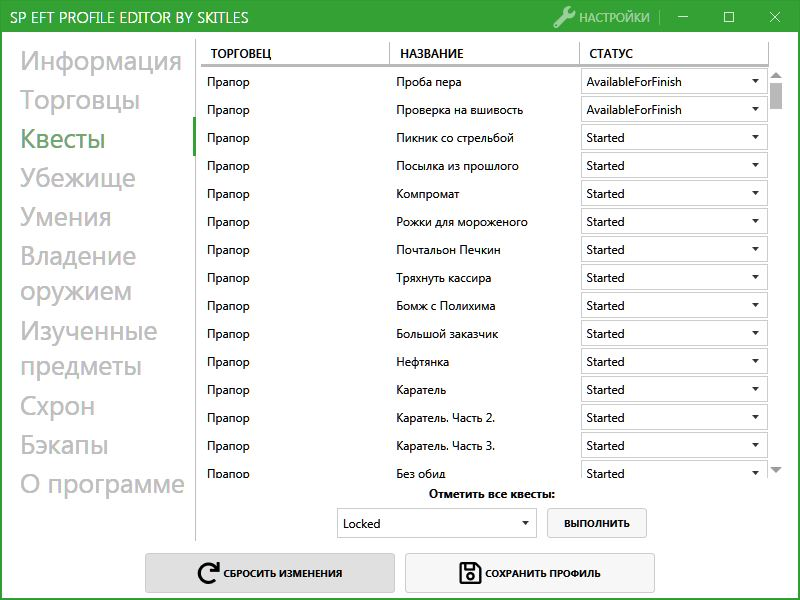
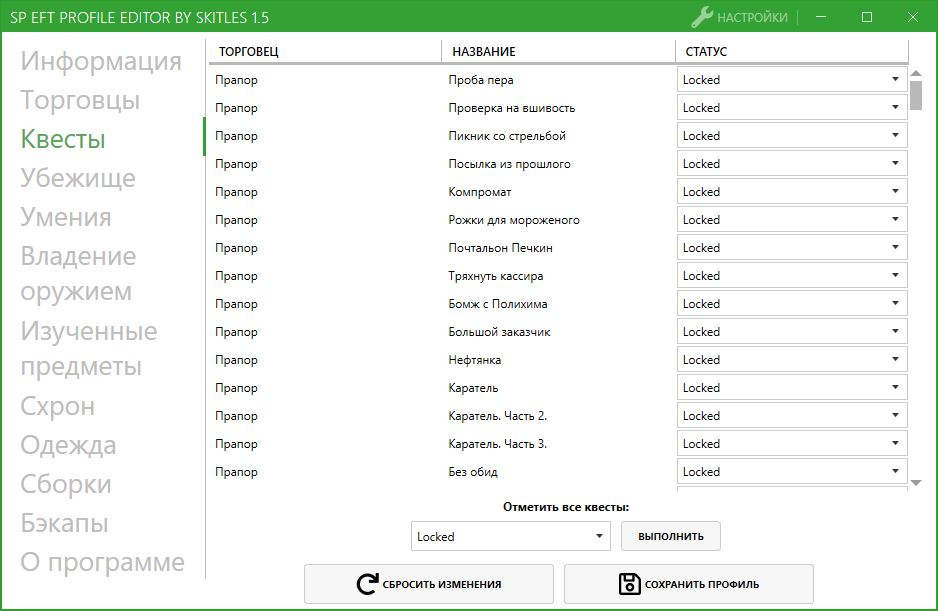
- Переход на SPT-AKI R7 - Локализация выбора головы персонажа - Обновление скриншотов - Обновление readme

diff --git a/SP-EFT-ProfileEditor/MainWindow.xaml b/SP-EFT-ProfileEditor/MainWindow.xaml
@@ -132,7 +132,7 @@
                             <TextBlock TextWrapping="Wrap" Text="{Binding locale[tab_info_head]}"/>
                         </Label.Content>
                     </Label>
-                    <ComboBox x:Name="infotab_Head" Grid.Column="1" Grid.Row="7" Margin="10,0" VerticalAlignment="Center" SelectedItem="{Binding Character.Customization.Head, Mode=TwoWay}"/>
+                    <ComboBox x:Name="infotab_Head" Grid.Column="1" Grid.Row="7" Margin="10,0" VerticalAlignment="Center" DisplayMemberPath="Value" SelectedValuePath="Key" SelectedValue="{Binding Character.Customization.Head, Mode=TwoWay}"/>
                     <Label Grid.Column="0" Grid.Row="8" HorizontalAlignment="Left" VerticalAlignment="Center" FontWeight="Bold" Margin="10,0,0,0">
                         <Label.Content>
                             <TextBlock TextWrapping="Wrap" Text="{Binding locale[tab_info_bigpockets]}"/>

diff --git a/SP-EFT-ProfileEditor/MainWindow.xaml.cs b/SP-EFT-ProfileEditor/MainWindow.xaml.cs
@@ -137,26 +137,41 @@ namespace SP_EFT_ProfileEditor
                     ModItemsWarning.Visibility = Visibility.Visible;
             }
             if (Lang.Character.Info != null && BotTypes != null && BotTypes.ContainsKey(Lang.Character.Info.Side))
-            {
-                infotab_Voice.ItemsSource = BotTypes[Lang.Character.Info.Side].appearance.voice;
-                infotab_Head.ItemsSource = BotTypes[Lang.Character.Info.Side].appearance.head;
-            }
+                SetHeadsAndVoices();
             progressDialog.CloseAsync();
+        }
+
+        private void SetHeadsAndVoices()
+        {
+            //infotab_Voice.ItemsSource = BotTypes[Lang.Character.Info.Side].appearance.voice;
+            //infotab_Head.ItemsSource = BotTypes[Lang.Character.Info.Side].appearance.head.Select(x => globalLang.Customization.ContainsKey(x) ? new KeyValuePair<string, string> (x, globalLang.Customization[x].Name) : new KeyValuePair<string, string>(x, x));
+            //while spt aki have bug with mixing heads
+            List<string> Voices = BotTypes[Lang.Character.Info.Side].appearance.voice.ToList();
+            if (!Voices.Contains(Lang.Character.Info.Voice))
+                Voices.Add(Lang.Character.Info.Voice);
+            infotab_Voice.ItemsSource = Voices;
+            Dictionary<string, string> Heads = new Dictionary<string, string>();
+            foreach (var type in BotTypes.Values)
+                foreach (var head in type.appearance.head)
+                    Heads.Add(head, globalLang.Customization.ContainsKey(head) ? globalLang.Customization[head].Name : head);
+            if (!Heads.ContainsKey(Lang.Character.Customization.Head))
+                Heads.Add(Lang.Character.Customization.Head, Lang.Character.Customization.Head);
+            infotab_Head.ItemsSource = Heads;
         }
 
         private void LoadDataWorker_DoWork(object sender, DoWorkEventArgs e)
         {
-            serverGlobals = JsonConvert.DeserializeObject<ServerGlobals>(File.ReadAllText(Path.Combine(Lang.options.EftServerPath, "packages", "eft-database", "db", "globals.json")));
-            globalLang = JsonConvert.DeserializeObject<GlobalLang>(File.ReadAllText(Path.Combine(Lang.options.EftServerPath, "packages", "eft-database", "db", "locales", "global", Lang.options.Language + ".json")));
+            serverGlobals = JsonConvert.DeserializeObject<ServerGlobals>(File.ReadAllText(Path.Combine(Lang.options.EftServerPath, "Aki_Data", "Server", "eft-database", "db", "globals.json")));
+            globalLang = JsonConvert.DeserializeObject<GlobalLang>(File.ReadAllText(Path.Combine(Lang.options.EftServerPath, "Aki_Data", "Server", "eft-database", "db", "locales", "global", Lang.options.Language + ".json")));
             itemsDB = new Dictionary<string, Item>();
-            itemsDB = JsonConvert.DeserializeObject<Dictionary<string, Item>>(File.ReadAllText(Path.Combine(Lang.options.EftServerPath, "packages", "eft-database", "db", "templates", "items.json")));
+            itemsDB = JsonConvert.DeserializeObject<Dictionary<string, Item>>(File.ReadAllText(Path.Combine(Lang.options.EftServerPath, "Aki_Data", "Server", "eft-database", "db", "templates", "items.json")));
             BotTypes = new Dictionary<string, BotType>();
-            BotTypes.Add("Bear", JsonConvert.DeserializeObject<BotType>(File.ReadAllText(Path.Combine(Lang.options.EftServerPath, "packages", "eft-database", "db", "bots", "types", "bear.json"))));
-            BotTypes.Add("Usec", JsonConvert.DeserializeObject<BotType>(File.ReadAllText(Path.Combine(Lang.options.EftServerPath, "packages", "eft-database", "db", "bots", "types", "usec.json"))));
+            BotTypes.Add("Bear", JsonConvert.DeserializeObject<BotType>(File.ReadAllText(Path.Combine(Lang.options.EftServerPath, "Aki_Data", "Server", "eft-database", "db", "bots", "types", "bear.json"))));
+            BotTypes.Add("Usec", JsonConvert.DeserializeObject<BotType>(File.ReadAllText(Path.Combine(Lang.options.EftServerPath, "Aki_Data", "Server", "eft-database", "db", "bots", "types", "usec.json"))));
             if (Lang.Character.Quests != null)
             {
                 Quests = new List<Quest>();
-                Dictionary<string, QuestData> qData = JsonConvert.DeserializeObject<Dictionary<string, QuestData>>(File.ReadAllText(Path.Combine(Lang.options.EftServerPath, "packages", "eft-database", "db", "templates", "quests.json")));
+                Dictionary<string, QuestData> qData = JsonConvert.DeserializeObject<Dictionary<string, QuestData>>(File.ReadAllText(Path.Combine(Lang.options.EftServerPath, "Aki_Data", "Server", "eft-database", "db", "templates", "quests.json")));
                 List<Character.Character_Quests> forAdd = new List<Character.Character_Quests>();
                 foreach (var qd in qData.Values)
                 {
@@ -235,7 +250,7 @@ namespace SP_EFT_ProfileEditor
             if (Lang.Character.Hideout != null)
             {
                 HideoutAreas = new List<CharacterHideoutArea>();
-                var areas = JsonConvert.DeserializeObject<List<AreaInfo>>(File.ReadAllText(Path.Combine(Lang.options.EftServerPath, "packages", "eft-database", "db", "hideout", "areas.json")));
+                var areas = JsonConvert.DeserializeObject<List<AreaInfo>>(File.ReadAllText(Path.Combine(Lang.options.EftServerPath, "Aki_Data", "Server", "eft-database", "db", "hideout", "areas.json")));
                 foreach (var area in areas)
                     HideoutAreas.Add(new CharacterHideoutArea { type = area.type, name = globalLang.Interface[$"hideout_area_{area.type}_name"], MaxLevel = area.stages.Count - 1, CurrentLevel = Lang.Character.Hideout.Areas.Where(x => x.Type == area.type).FirstOrDefault().Level, stages = area.stages });
             }
@@ -273,7 +288,7 @@ namespace SP_EFT_ProfileEditor
             if (Lang.Character.Suits != null)
             {
                 Suits = new List<SuitInfo>();
-                foreach (var s in Directory.GetDirectories(Path.Combine(Lang.options.EftServerPath, "packages", "eft-database", "db", "traders")).Where(x => File.Exists(Path.Combine(x, "suits.json"))))
+                foreach (var s in Directory.GetDirectories(Path.Combine(Lang.options.EftServerPath, "Aki_Data", "Server", "eft-database", "db", "traders")).Where(x => File.Exists(Path.Combine(x, "suits.json"))))
                 {
                     var temp = JsonConvert.DeserializeObject<TraderSuit[]>(File.ReadAllText(Path.Combine(s, "suits.json")));
                     if (temp != null)
@@ -477,14 +492,13 @@ namespace SP_EFT_ProfileEditor
             if (!IsLoaded)
                return;
             if (Lang.Character.Info != null && BotTypes != null && BotTypes.ContainsKey(Lang.Character.Info.Side))
-            {
-                infotab_Voice.ItemsSource = BotTypes[Lang.Character.Info.Side].appearance.voice;
-                infotab_Head.ItemsSource = BotTypes[Lang.Character.Info.Side].appearance.head;
-            }
-            if (!infotab_Voice.Items.Contains(infotab_Voice.SelectedItem))
-                infotab_Voice.SelectedIndex = 0;
-            if (!infotab_Head.Items.Contains(infotab_Head.SelectedItem))
-                infotab_Head.SelectedIndex = 0;
+                SetHeadsAndVoices();
+            //if (!infotab_Voice.Items.Contains(infotab_Voice.SelectedItem))
+            //    infotab_Voice.SelectedIndex = 0;
+            //if (infotab_Head.SelectedItem == null)
+            //    infotab_Head.SelectedIndex = 0;
+            //if (!infotab_Head.Items.Contains(infotab_Head.SelectedItem))
+            //    infotab_Head.SelectedIndex = 0; return this after fix mixing head bug
         }
 
         private void infotab_Level_TextChanged(object sender, TextChangedEventArgs e)

diff --git a/SP-EFT-ProfileEditor/ExtMethods.cs b/SP-EFT-ProfileEditor/ExtMethods.cs
@@ -13,11 +13,12 @@ namespace SP_EFT_ProfileEditor
             if (string.IsNullOrWhiteSpace(sptPath)) return false;
             if (!Directory.Exists(sptPath)) return false;
             if (!File.Exists(Path.Combine(sptPath, "Server.exe"))) return false;
-            if (!Directory.Exists(Path.Combine(sptPath, "packages"))) return false;
-            if (!Directory.Exists(Path.Combine(sptPath, @"packages\eft-database"))) return false;
-            if (!Directory.Exists(Path.Combine(sptPath, @"packages\eft-database\db"))) return false;
-            if (!Directory.Exists(Path.Combine(sptPath, @"packages\eft-database\db\locales"))) return false;
-            if (!Directory.Exists(Path.Combine(sptPath, @"packages\eft-database\db\templates"))) return false;
+            if (!Directory.Exists(Path.Combine(sptPath, "Aki_Data"))) return false;
+            if (!Directory.Exists(Path.Combine(sptPath, "Aki_Data", "Server"))) return false;
+            if (!Directory.Exists(Path.Combine(sptPath, "Aki_Data", "Server", "eft-database"))) return false;
+            if (!Directory.Exists(Path.Combine(sptPath, "Aki_Data", "Server", "eft-database", "db"))) return false;
+            if (!Directory.Exists(Path.Combine(sptPath, "Aki_Data", "Server", "eft-database", "db", "locales"))) return false;
+            if (!Directory.Exists(Path.Combine(sptPath, "Aki_Data", "Server", "eft-database", "db", "templates"))) return false;
             if (!Directory.Exists(Path.Combine(sptPath, "user"))) return false;
 
             return true;

diff --git a/SP-EFT-ProfileEditor/ExtClasses.cs b/SP-EFT-ProfileEditor/ExtClasses.cs
@@ -51,6 +51,9 @@ namespace SP_EFT_ProfileEditor
 
         [JsonProperty("templates")]
         public Dictionary<string, Template> Templates { get; set; }
+
+        [JsonProperty("customization")]
+        public Dictionary<string, Template> Customization { get; set; }
     }
 
     public class Template

diff --git a/README.md b/README.md
@@ -1,20 +1,23 @@
 # SP-EFT-ProfileEditor
 Программа для редактирования профиля игрока на сервере SPTarkov
 
-Возможности:
+### Возможности:
 * Уровень, никнейм, голос персонажа
-* Установка обычных\больших карманов
+* Установка обычных \ больших карманов
 * Уровни застройки убежища
 * Уровни отношений торговцев
 * Статусы квестов
-* Уровни скиллов
+* Уровни скиллов \ владения оружия
 * Изученные предметы
-* Удаление\добавление предметов в схроне (WIP), выдача денег
+* Удаление \ добавление предметов в схроне (WIP), выдача денег
+* Импорт \ экспорт \ удаление сборок оружия
 
-Особенности:
+### Особенности:
 * Простой, интуитивно понятный интерфейс
 * Мультиязычность, с возможностью редактирования локализации
 * Автоматические бэкапы при каждом сохранении профиля
+
+[Версия 1.5 для серверов SPT-AKI Alpha R7](https://github.com/SkiTles55/SP-EFT-ProfileEditor/releases/tag/1.5)
 
 [Версия 1.4 для серверов SPT-AKI Alpha R4/R5/R6](https://github.com/SkiTles55/SP-EFT-ProfileEditor/releases/tag/1.4)
 
@@ -24,7 +27,27 @@
 
 [Версия 1.0 для серверов 0.12.7-R6](https://github.com/SkiTles55/SP-EFT-ProfileEditor/releases/tag/1.0)
 
+# SP-EFT-ProfileEditor ENG Readme
+Program for editing player profile on the SPTarkov Server
+
+### Capabilities:
+* Level, nickname, character voice  
+* Switching between regular \ large pockets  
+* Hideout building levels  
+* Trader relationship levels  
+* Quest statuses  
+* Skill \ Mastering levels  
+* Examined items  
+* Removing \ adding items in stash (WIP), adding money 
+* Import \ export \ removing weapon builds
+
+### Features:  
+* Simple, intuitive interface  
+* Multilingual, with the ability to edit localization  
+* Automatic backups every time you save your profile  
+
 ![Скриншот1](https://github.com/SkiTles55/SP-EFT-ProfileEditor/blob/master/screenshots/1.JPG?raw=true)
 ![Скриншот2](https://github.com/SkiTles55/SP-EFT-ProfileEditor/blob/master/screenshots/2.JPG?raw=true)
 ![Скриншот3](https://github.com/SkiTles55/SP-EFT-ProfileEditor/blob/master/screenshots/3.JPG?raw=true)
 ![Скриншот4](https://github.com/SkiTles55/SP-EFT-ProfileEditor/blob/master/screenshots/4.JPG?raw=true)
+![Скриншот5](https://github.com/SkiTles55/SP-EFT-ProfileEditor/blob/master/screenshots/5.JPG?raw=true)
